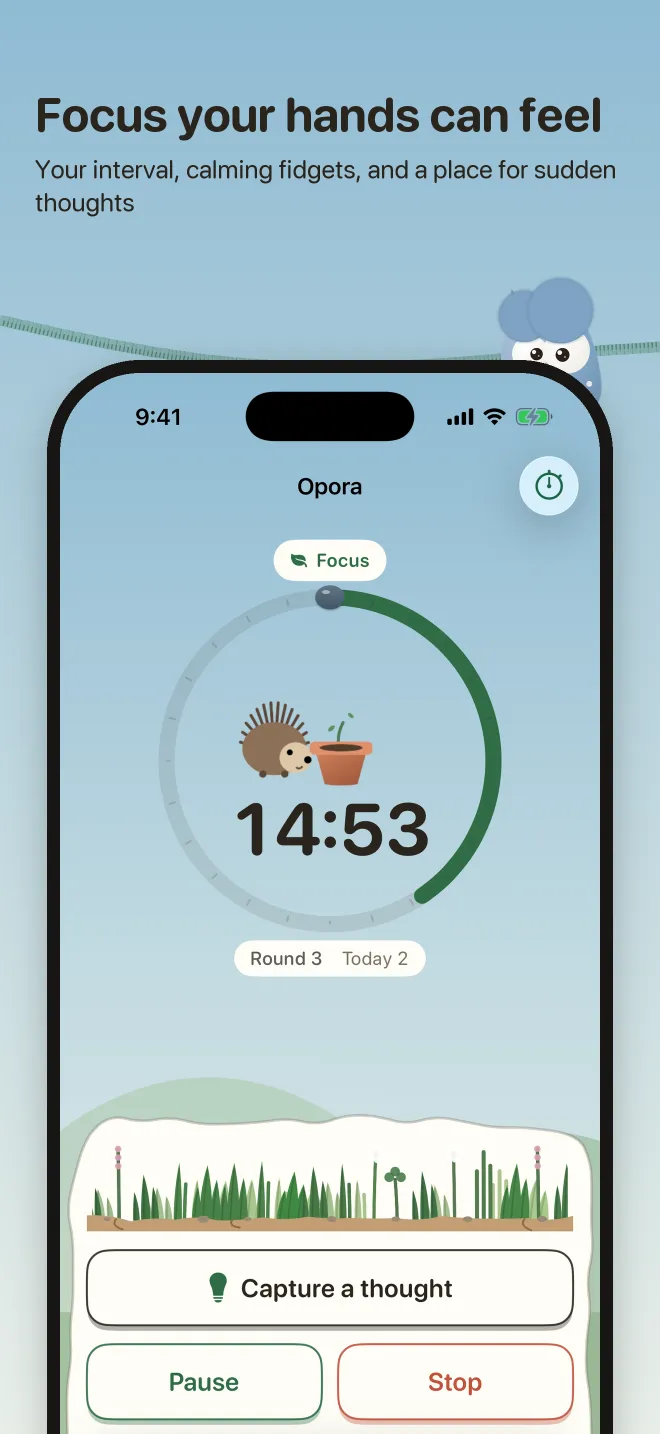
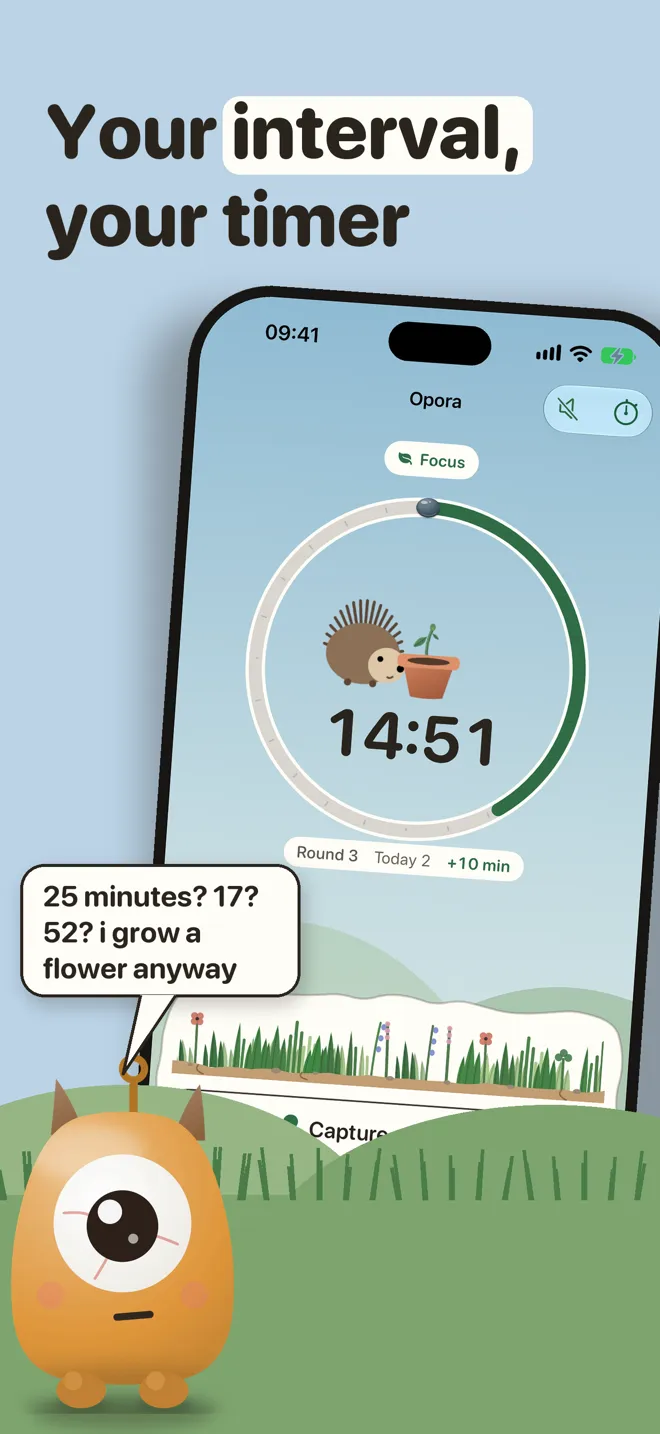
site: getopora.app from opora-ios 2b00f04

diff --git a/press/index.html b/press/index.html
@@ -43,8 +43,8 @@
     <h1 class="hero-title" id="press-title">Press kit</h1>
     <div class="press-top">
       <div class="press-about">
-        <p class="section-lead">Opora is an iPhone app for adults with ADHD who stall at the start. It has an interval timer set to each person’s own focus length, tasks sorted as animals, a grove that grows from finished intervals, and short CBT and DBT practices for hard moments. Thirty clay-looking weirdos sit in the same states as the people who use it, frozen before the start or melted on the couch, and joke about themselves. A missed day adds nothing and takes nothing away. Tasks and sessions stay on the phone, with no account and no ads.</p>
-        <p class="section-lead" lang="ru">Опора помогает взрослым с СДВГ, которые буксуют на старте. В ней есть интервальный таймер под личную длину фокуса, задачи-звери, роща, которая растёт из завершённых интервалов, и короткие практики из КПТ и ДБТ на трудный момент. Тридцать пластилиновых всратышей застревают там же, где их хозяева: застывают перед стартом, растекаются по дивану, и все шутки у них про себя. Пропущенный день ничего не добавляет и ничего не отнимает. Задачи и сессии остаются на телефоне. Аккаунт не нужен, рекламы нет.</p>
+        <p class="section-lead">Opora is an iPhone app for adults with ADHD who stall at the start. It has an interval timer set to each person’s own focus length, tasks sorted as animals, a grove that grows from finished intervals, a skills course of nine short lessons, and short CBT and DBT practices for hard moments. Thirty clay-looking weirdos sit in the same states as the people who use it, frozen before the start or melted on the couch, and joke about themselves. A missed day adds nothing and takes nothing away. Tasks and sessions stay on the phone, with no account and no ads.</p>
+        <p class="section-lead" lang="ru">Опора помогает взрослым с СДВГ, которые буксуют на старте. В ней есть интервальный таймер под личную длину фокуса, задачи-звери, роща, которая растёт из завершённых интервалов, курс навыков из девяти коротких уроков и короткие практики из КПТ и ДБТ на трудный момент. Тридцать пластилиновых всратышей застревают там же, где их хозяева: застывают перед стартом, растекаются по дивану, и все шутки у них про себя. Пропущенный день ничего не добавляет и ничего не отнимает. Задачи и сессии остаются на телефоне. Аккаунт не нужен, рекламы нет.</p>
         <div class="press-actions">
           <a class="button button-primary" href="opora-weirdos.zip" download>Download all art <span class="button-tag">ZIP, 5.1&nbsp;MB</span></a>
           <a class="button button-secondary" href="opora-icon-1024.png" download><img src="../logo.webp" alt="" width="28" height="28">App icon <span class="muted">PNG, 1024&nbsp;px, 0.7&nbsp;MB</span></a>
@@ -369,25 +369,27 @@
     <p class="section-lead">Captioned screens from the App Store listing, 660&nbsp;px wide.</p>
     <h3 class="press-group-title" id="shots-en">English</h3>
     <ul class="screens-rail" role="list" lang="en" aria-labelledby="shots-en">
-      <li><a href="../shots/en/01-timer.webp"><img src="../shots/en/01-timer.webp" width="660" height="1434" loading="lazy" alt="The timer, captioned “Focus your hands can feel”"></a></li>
-      <li><a href="../shots/en/02-tasks.webp"><img src="../shots/en/02-tasks.webp" width="660" height="1434" loading="lazy" alt="Tasks, captioned “Turn the mess into four animals”"></a></li>
-      <li><a href="../shots/en/03-grove.webp"><img src="../shots/en/03-grove.webp" width="660" height="1434" loading="lazy" alt="The grove, captioned “Your week grows into a grove”"></a></li>
-      <li><a href="../shots/en/04-garden.webp"><img src="../shots/en/04-garden.webp" width="660" height="1434" loading="lazy" alt="The garden, captioned “Step inside your garden”"></a></li>
-      <li><a href="../shots/en/05-practice.webp"><img src="../shots/en/05-practice.webp" width="660" height="1434" loading="lazy" alt="Practices, captioned “Skills for the hard moments”"></a></li>
-      <li><a href="../shots/en/06-break.webp"><img src="../shots/en/06-break.webp" width="660" height="1434" loading="lazy" alt="A break, captioned “A little weirdo lives on breaks”"></a></li>
-      <li><a href="../shots/en/07-stats.webp"><img src="../shots/en/07-stats.webp" width="660" height="1434" loading="lazy" alt="Statistics, captioned “Notice when focus comes easier”"></a></li>
-      <li><a href="../shots/en/08-award.webp"><img src="../shots/en/08-award.webp" width="660" height="1434" loading="lazy" alt="A new level, captioned “You showed up. That counts”"></a></li>
+      <li><a href="../shots/en/01-timer.webp"><img src="../shots/en/01-timer.webp" width="660" height="1434" loading="lazy" alt="The timer, captioned “Your interval, your timer”"></a></li>
+      <li><a href="../shots/en/02-fidgets.webp"><img src="../shots/en/02-fidgets.webp" width="660" height="1434" loading="lazy" alt="Fidget beads around the timer, captioned “Fidgets that help”"></a></li>
+      <li><a href="../shots/en/03-hub.webp"><img src="../shots/en/03-hub.webp" width="660" height="1434" loading="lazy" alt="Today, captioned “Your ADHD hub, built around you”"></a></li>
+      <li><a href="../shots/en/04-course.webp"><img src="../shots/en/04-course.webp" width="660" height="1434" loading="lazy" alt="The skills course, captioned “ADHD skills in tiny lessons”"></a></li>
+      <li><a href="../shots/en/05-grass.webp"><img src="../shots/en/05-grass.webp" width="660" height="1434" loading="lazy" alt="Grass under the timer, captioned “Pet the grass”"></a></li>
+      <li><a href="../shots/en/06-tasks.webp"><img src="../shots/en/06-tasks.webp" width="660" height="1434" loading="lazy" alt="Tasks, captioned “Big tasks get a bison”"></a></li>
+      <li><a href="../shots/en/07-garden.webp"><img src="../shots/en/07-garden.webp" width="660" height="1434" loading="lazy" alt="The garden, captioned “Focus grows a garden”"></a></li>
+      <li><a href="../shots/en/08-nudges.webp"><img src="../shots/en/08-nudges.webp" width="660" height="1434" loading="lazy" alt="Notifications, captioned “Nudges, not nagging”"></a></li>
+      <li><a href="../shots/en/09-break.webp"><img src="../shots/en/09-break.webp" width="660" height="1434" loading="lazy" alt="A break, captioned “Breaks with a weirdo”"></a></li>
     </ul>
     <h3 class="press-group-title" id="shots-ru" lang="ru">Русский</h3>
     <ul class="screens-rail" role="list" lang="ru" aria-labelledby="shots-ru">
-      <li><a href="../shots/ru/01-timer.webp"><img src="../shots/ru/01-timer.webp" width="660" height="1434" loading="lazy" alt="Таймер, подпись «Фокус, который можно потрогать»"></a></li>
-      <li><a href="../shots/ru/02-tasks.webp"><img src="../shots/ru/02-tasks.webp" width="660" height="1434" loading="lazy" alt="Задачи, подпись «Разложи хаос на четырёх зверей»"></a></li>
-      <li><a href="../shots/ru/03-grove.webp"><img src="../shots/ru/03-grove.webp" width="660" height="1434" loading="lazy" alt="Роща, подпись «Неделя превращается в рощу»"></a></li>
-      <li><a href="../shots/ru/04-garden.webp"><img src="../shots/ru/04-garden.webp" width="660" height="1434" loading="lazy" alt="Сад, подпись «Загляни в свой сад»"></a></li>
-      <li><a href="../shots/ru/05-practice.webp"><img src="../shots/ru/05-practice.webp" width="660" height="1434" loading="lazy" alt="Практики, подпись «Практики для трудного момента»"></a></li>
-      <li><a href="../shots/ru/06-break.webp"><img src="../shots/ru/06-break.webp" width="660" height="1434" loading="lazy" alt="Перерыв, подпись «На перерыве живёт всратыш»"></a></li>
-      <li><a href="../shots/ru/07-stats.webp"><img src="../shots/ru/07-stats.webp" width="660" height="1434" loading="lazy" alt="Статистика, подпись «Заметь часы, когда легче»"></a></li>
-      <li><a href="../shots/ru/08-award.webp"><img src="../shots/ru/08-award.webp" width="660" height="1434" loading="lazy" alt="Новый уровень, подпись «Ты был здесь. Этого достаточно»"></a></li>
+      <li><a href="../shots/ru/01-timer.webp"><img src="../shots/ru/01-timer.webp" width="660" height="1434" loading="lazy" alt="Таймер, подпись «Свой интервал, свой таймер»"></a></li>
+      <li><a href="../shots/ru/02-fidgets.webp"><img src="../shots/ru/02-fidgets.webp" width="660" height="1434" loading="lazy" alt="Бусины-фиджеты вокруг таймера, подпись «Фиджеты, которые помогают»"></a></li>
+      <li><a href="../shots/ru/03-hub.webp"><img src="../shots/ru/03-hub.webp" width="660" height="1434" loading="lazy" alt="Сегодня, подпись «Личный хаб под вашу неделю»"></a></li>
+      <li><a href="../shots/ru/04-course.webp"><img src="../shots/ru/04-course.webp" width="660" height="1434" loading="lazy" alt="Курс навыков, подпись «Навыки СДВГ короткими уроками»"></a></li>
+      <li><a href="../shots/ru/05-grass.webp"><img src="../shots/ru/05-grass.webp" width="660" height="1434" loading="lazy" alt="Трава под таймером, подпись «Траву можно гладить»"></a></li>
+      <li><a href="../shots/ru/06-tasks.webp"><img src="../shots/ru/06-tasks.webp" width="660" height="1434" loading="lazy" alt="Задачи, подпись «Большое дело везёт бизон»"></a></li>
+      <li><a href="../shots/ru/07-garden.webp"><img src="../shots/ru/07-garden.webp" width="660" height="1434" loading="lazy" alt="Роща, подпись «Фокус растит рощу»"></a></li>
+      <li><a href="../shots/ru/08-nudges.webp"><img src="../shots/ru/08-nudges.webp" width="660" height="1434" loading="lazy" alt="Напоминания, подпись «Напоминания, а не нытьё»"></a></li>
+      <li><a href="../shots/ru/09-break.webp"><img src="../shots/ru/09-break.webp" width="660" height="1434" loading="lazy" alt="Перерыв, подпись «Перерыв со всратышем»"></a></li>
     </ul>
   </section>
 </main>

diff --git a/ru/index.html b/ru/index.html
@@ -42,9 +42,10 @@
  "url": "https://getopora.app/ru/",
  "image": "https://getopora.app/press/opora-icon-1024.png",
  "screenshot": [
+  "https://getopora.app/shots/ru/03-hub.webp",
+  "https://getopora.app/shots/ru/04-course.webp",
   "https://getopora.app/shots/ru/01-timer.webp",
-  "https://getopora.app/shots/ru/02-tasks.webp",
-  "https://getopora.app/shots/ru/05-practice.webp"
+  "https://getopora.app/shots/ru/06-tasks.webp"
  ],
  "operatingSystem": "iOS 17 or later",
  "applicationCategory": "HealthApplication",
@@ -136,14 +137,14 @@
   <section class="wrap section">
     <h2 class="section-title" id="screens-title">Как это выглядит на&nbsp;iPhone</h2>
     <ul class="screens-rail" role="list" tabindex="0" aria-labelledby="screens-title">
+      <li><img src="../shots/ru/03-hub.webp" width="660" height="1434" loading="lazy"
+               alt="Сегодня с подписью «Личный хаб под вашу неделю»: следующий урок курса навыков и круги за неделю над лугом"></li>
+      <li><img src="../shots/ru/04-course.webp" width="660" height="1434" loading="lazy"
+               alt="Курс навыков с подписью «Навыки СДВГ короткими уроками»: пройдено 3 урока из 9, отмечены «Как начать» и «Рычаг ВИНУС»"></li>
       <li><img src="../shots/ru/01-timer.webp" width="660" height="1434" loading="lazy"
-               alt="Таймер с подписью «Фокус, который можно потрогать»: 14:53 на зелёном кольце с ёжиком в центре, трава для пальцев и кнопка, чтобы записать мысль"></li>
-      <li><img src="../shots/ru/02-tasks.webp" width="660" height="1434" loading="lazy"
-               alt="Задачи с подписью «Разложи хаос на четырёх зверей»: бумажка идей на разбор и задачи с метками буйвола и слона"></li>
-      <li><img src="../shots/ru/05-practice.webp" width="660" height="1434" loading="lazy"
-               alt="Практики с подписью «Практики для трудного момента»: список состояний, у каждого свой всратыш"></li>
-      <li><img src="../shots/ru/06-break.webp" width="660" height="1434" loading="lazy"
-               alt="Перерыв с подписью «На перерыве живёт всратыш»: 3:40 на синем кольце, а ниже ждут отложенные мысли"></li>
+               alt="Таймер с подписью «Свой интервал, свой таймер»: 14:51 на зелёном кольце, в центре ёжик и цветок в горшке"></li>
+      <li><img src="../shots/ru/06-tasks.webp" width="660" height="1434" loading="lazy"
+               alt="Задачи с подписью «Большое дело везёт бизон»: бумажка идей на разбор, план дня и задачи вроде квартального отчёта"></li>
     </ul>
   </section>
 
@@ -212,7 +213,7 @@
       <article class="panel span-7" aria-labelledby="practice-title">
         <div class="panel-body">
           <h3 class="panel-title" id="practice-title">Практики на&nbsp;трудный момент</h3>
-          <p>Короткие упражнения на&nbsp;основе КПТ и&nbsp;ДБТ: заземление <span class="nowrap">5-4-3-2-1</span>, TIPP, STOP и&nbsp;дыхание, а&nbsp;ещё уравнение прокрастинации Пирса Стила. Каждое объясняет, зачем нужен следующий шаг, и&nbsp;все они открыты без Plus.</p>
+          <p>Короткие упражнения на&nbsp;основе КПТ и&nbsp;ДБТ: заземление <span class="nowrap">5-4-3-2-1</span>, TIPP, STOP и&nbsp;дыхание, а&nbsp;ещё уравнение прокрастинации Пирса Стила. Каждое объясняет, зачем нужен следующий шаг, и&nbsp;все они открыты без Plus. Рядом курс навыков из&nbsp;девяти коротких уроков: первый урок и&nbsp;часть второго бесплатны, остальное открывает Plus.</p>
         </div>
         <div class="stage is-flipped">
           <p class="time-caption">19:30 <span>· диван</span></p>
@@ -261,8 +262,8 @@
           <p>Каждый завершённый интервал сажает растение в&nbsp;роще, а&nbsp;награды и&nbsp;компаньон никуда не&nbsp;денутся. После пропущенного дня роща стоит, как стояла, а&nbsp;пустой холмик ждёт завтрашней клумбы.</p>
         </div>
         <figure class="grove-figure">
-          <img src="../shots/grove.webp" width="875" height="1368" loading="lazy"
-               alt="Сад Опоры: ромашки и подсолнухи на зелёном холме, в траве сидит ёжик">
+          <img src="../shots/grove.webp" width="875" height="875" loading="lazy"
+               alt="Сад Опоры: ромашки, мак, ирис и пчёлы над травой, впереди ёжик">
         </figure>
       </article>
     </div>
@@ -470,6 +471,7 @@
             <li>фиджеты, семечко, виджеты и&nbsp;бэкап</li>
             <li>статистика за&nbsp;последние 7&nbsp;дней</li>
             <li>все техники на&nbsp;трудный момент, целиком</li>
+            <li>первый урок курса и&nbsp;часть второго</li>
             <li>щит на&nbsp;круг: до&nbsp;3 приложений, категорий или сайтов</li>
           </ul>
         </div>
@@ -484,7 +486,7 @@
             <li>сад на&nbsp;весь экран</li>
             <li>оформление под себя: кольцо таймера, небо рощи и&nbsp;кошку на&nbsp;кольце</li>
             <li>базовый гардероб компаньона и&nbsp;все шесть своих вещей: их можно носить, пока действует Plus, не&nbsp;дожидаясь уровней и&nbsp;желудей</li>
-            <li>полные конспекты курса, квадрат Декарта, ревью решений «Оглянись» и&nbsp;разбор недели</li>
+            <li>все девять уроков курса, лайфхаки и&nbsp;мантры целиком, квадрат Декарта, ревью решений «Оглянись» и&nbsp;разбор недели</li>
           </ul>
           <p>Подписка продлевается сама, а&nbsp;отменить её можно в&nbsp;настройках Apple&nbsp;ID в&nbsp;любой момент.</p>
         </div>

diff --git a/index.html b/index.html
@@ -43,9 +43,10 @@
  "url": "https://getopora.app/",
  "image": "https://getopora.app/press/opora-icon-1024.png",
  "screenshot": [
+  "https://getopora.app/shots/en/03-hub.webp",
+  "https://getopora.app/shots/en/04-course.webp",
   "https://getopora.app/shots/en/01-timer.webp",
-  "https://getopora.app/shots/en/02-tasks.webp",
-  "https://getopora.app/shots/en/05-practice.webp"
+  "https://getopora.app/shots/en/06-tasks.webp"
  ],
  "operatingSystem": "iOS 17 or later",
  "applicationCategory": "HealthApplication",
@@ -137,14 +138,14 @@
   <section class="wrap section">
     <h2 class="section-title" id="screens-title">Opora on your iPhone</h2>
     <ul class="screens-rail" role="list" tabindex="0" aria-labelledby="screens-title">
+      <li><img src="shots/en/03-hub.webp" width="660" height="1434" loading="lazy"
+               alt="Today, captioned Your ADHD hub, built around you: the next lesson of the skills course and this week’s rounds above the meadow"></li>
+      <li><img src="shots/en/04-course.webp" width="660" height="1434" loading="lazy"
+               alt="The skills course, captioned ADHD skills in tiny lessons: 3 of 9 lessons done, How to start and The INCUP lever ticked off"></li>
       <li><img src="shots/en/01-timer.webp" width="660" height="1434" loading="lazy"
-               alt="The timer, captioned Focus your hands can feel: 14:53 left on a green ring with the hedgehog in the middle, fidget grass and a Capture a thought button"></li>
-      <li><img src="shots/en/02-tasks.webp" width="660" height="1434" loading="lazy"
-               alt="Tasks, captioned Turn the mess into four animals: an idea paper to sort and tasks marked buffalo and elephant"></li>
-      <li><img src="shots/en/05-practice.webp" width="660" height="1434" loading="lazy"
-               alt="Practices, captioned Skills for the hard moments: states such as Can’t start and Too much of everything, each with its weirdo"></li>
-      <li><img src="shots/en/06-break.webp" width="660" height="1434" loading="lazy"
-               alt="A break, captioned A little weirdo lives on breaks: 3:40 left on a blue ring, with parked thoughts waiting below"></li>
+               alt="The timer, captioned Your interval, your timer: 14:51 left on a green ring with the hedgehog and a flowerpot in the middle"></li>
+      <li><img src="shots/en/06-tasks.webp" width="660" height="1434" loading="lazy"
+               alt="Tasks, captioned Big tasks get a bison: an idea paper to sort, a plan for the day and tasks such as Send the quarterly report"></li>
     </ul>
   </section>
 
@@ -213,7 +214,7 @@
       <article class="panel span-7" aria-labelledby="practice-title">
         <div class="panel-body">
           <h3 class="panel-title" id="practice-title">Practices for hard moments</h3>
-          <p>Short exercises based on CBT and DBT, such as <span class="nowrap">5-4-3-2-1</span> grounding, TIPP, STOP and paced breathing, plus Piers Steel’s procrastination equation. Each one explains what the next step is for, and all of them are open without Plus.</p>
+          <p>Short exercises based on CBT and DBT, such as <span class="nowrap">5-4-3-2-1</span> grounding, TIPP, STOP and paced breathing, plus Piers Steel’s procrastination equation. Each one explains what the next step is for, and all of them are open without Plus. Next to them sits a skills course of nine short lessons: the first lesson and part of the second are free, and Plus opens the rest.</p>
         </div>
         <div class="stage is-flipped">
           <p class="time-caption">7:30&nbsp;PM <span>· the couch</span></p>
@@ -262,8 +263,8 @@
           <p>Each finished interval plants something in your grove, and your awards and companion stay with you. Miss a day and the grove stays the way you left it, with an empty hill for tomorrow’s flowerbed.</p>
         </div>
         <figure class="grove-figure">
-          <img src="shots/grove.webp" width="875" height="1368" loading="lazy"
-               alt="Opora’s garden: daisies and sunflowers on a green hill, with a hedgehog in the grass">
+          <img src="shots/grove.webp" width="875" height="875" loading="lazy"
+               alt="Opora’s garden: daisies, a poppy, an iris and bees over the grass, with a hedgehog in front">
         </figure>
       </article>
     </div>
@@ -471,6 +472,7 @@
             <li>fidgets, the seed, widgets and backup</li>
             <li>the last 7 days of statistics</li>
             <li>every technique for a hard moment, in full</li>
+            <li>the first course lesson and part of the second</li>
             <li>a shield on up to 3 apps, categories or sites during a round</li>
           </ul>
         </div>
@@ -485,7 +487,7 @@
             <li>the fullscreen garden</li>
             <li>your own look: the timer ring, the grove sky and the cat on the ring</li>
             <li>the companion’s basic wardrobe and all six of your own items, yours to wear while Plus is active</li>
-            <li>the full course notes, the Descartes square, the “Look back” decision review and the week breakdown</li>
+            <li>all nine course lessons, hacks and mantras in full, the Descartes square, the “Look back” decision review and the week breakdown</li>
           </ul>
           <p>The subscription renews on its own, and you can cancel it any time in your Apple ID settings.</p>
         </div>
